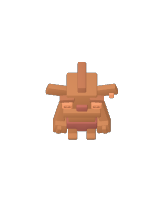
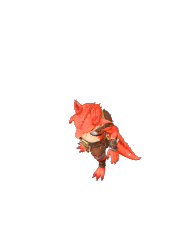
Tiles for the new monsters and the *_classic ones; docs (format.md bodies, fast-skill.md, CHANGELOG)

Changed region(s): [[0.2744, 0.3015, 0.7317, 0.7839]]

diff --git a/plugins/tablefolk-scenario/skills/tablefolk-scenario/reference/format.md b/plugins/tablefolk-scenario/skills/tablefolk-scenario/reference/format.md
@@ -170,11 +170,19 @@ the generator's `MODELS` in `server/generate.js`); each body's 2D tile is in
   (a young red dragon), `imp`, `mushroom_warrior`, `bunny` (a rabbit with a
   sword), `snake`, `wasp` (a giant one), `frog` (a giant one). Made for the
   game like the Meshy people: `minotaur`, `lizardman`, `werewolf`, `mummy`.
+  Made for the game in 2026-11 (rigged Meshy models): `zombie`, `kobold` (a
+  little red dragon-dog), `demon`, `giant` (a hill giant), `imp` (their old
+  models stay as `zombie_classic kobold_classic demon_classic giant_classic
+  imp_classic`), and `ogre`, `gnoll` (hyena-headed), `lich` (a crowned undead
+  sorcerer), `vampire`, `cultist` (red-robed, masked), `bandit`; and `bear`
+  (a grizzly). Ogres, liches, vampires, cultists and bandits have minds (they
+  can talk, threaten, bargain); give one `"hostile": true` to make it fight.
 - **More people** (made for the game, 2026-11-13; they sit, sleep and work
   like the others): `dwarf` (a red-bearded miner), `elf` (a silver-haired
   ranger), `priest`, `guard` (a town guard in a tabard), `merchant`.
-- Mindless monsters (skeletons, zombie, rat, spider, wolf, bat, slime,
-  ghost, giant, demon, dragon and the ones above) are hostile by default and
+- Mindless monsters (skeletons, zombie, rat, spider, wolf, bear, gnoll, bat,
+  slime, ghost, giant, demon, dragon and the Quaternius and Meshy ones above,
+  not the ogre, lich, vampire, cultist or bandit) are hostile by default and
   never talk.
 - **Animals** (Quaternius, CC0): `cow bull horse white_horse donkey deer stag
   fox dog husky alpaca pig sheep`, and `wolf` (hostile by default). They are

diff --git a/server/fast-skill.md b/server/fast-skill.md
@@ -19,7 +19,7 @@ else (no prose, no markdown fences). Be quick: keep it compact.
   "agents": [ {
     "id": "vexa",                    // 1-24 chars [A-Za-z0-9_-], unique
     "model": "wizard",               // people: woodsman huntress peasant peasant_woman adventurer adventurer_woman hooded king farmer villager witch wizard swordswoman sorceress swordsman wanderer villager_woman dwarf elf priest guard merchant
-                                     // monsters: skeleton skeleton_warrior zombie goblin kobold orc rat spider wolf bat ghost slime demon giant dragon wyrmling imp mushroom_warrior bunny snake wasp frog minotaur lizardman werewolf mummy
+                                     // monsters: skeleton skeleton_warrior zombie goblin kobold orc rat spider wolf bat ghost slime demon giant dragon wyrmling imp mushroom_warrior bunny snake wasp frog minotaur lizardman werewolf mummy ogre gnoll lich vampire cultist bandit bear
                                      // animals (never hostile unless "hostile": true; they don't talk unless "talks": true): cow bull horse white_horse donkey deer stag fox dog husky alpaca pig sheep
                                      // (older chibi bodies: critter woman rogue knight mage ranger barbarian)
     "hostile": true,                 // optional: fights the player with a built-in routine (default true for mindless monsters); with a real personality it still talks when spoken to and as the fight starts. Set it on the story's enemies (a necromancer, a bandit chief), or they only talk

diff --git a/CHANGELOG.md b/CHANGELOG.md
@@ -14,6 +14,10 @@ skill (internals); `git log` has every commit.
 - **Fix**: a character's turn no longer undoes what happened while its model was thinking (a blow that landed, a weapon it drew, food it ate, news it was told).
 - **Gemma 4 E4B and 12B with sight** are model choices (the full multimodal files, for 8 GB and 12 GB cards), and what a character sees when it looks stays in its memory.
 
+## 2026-11-15
+
+- **More and better monsters**: the zombie, kobold, demon, giant and imp are now detailed, fully animated models (the old ones stay as `*_classic`), and there are new common foes: an ogre, a gnoll, a lich, a vampire, a cultist, a bandit and a bear. Ogres, liches, vampires, cultists and bandits can talk (and bargain or threaten); gnolls and bears just fight. The world builder and the map editor offer them all.
+
 ## 2026-11-14
 
 - **Real voices**: characters cry out, groan and die with recorded voices instead of synthesized ones, and they differ by body: men and women, big monsters (a troll, a dragon, a minotaur roar and bellow), small ones (goblins, imps, rats squeal), the undead (rattling breaths), insects and snakes. Monsters and beasts growl, hiss or bark as they attack, and bites land with a wet crunch. Animals have their own calls (moo, bellow, oink, whinny, bray, baa, howl, bark, croak, buzz), heard now and then as they graze and whenever you speak to them. 92 CC0 clips from OpenGameArt and Freesound, picked and checked by ear with Gemini 4 Argon.
